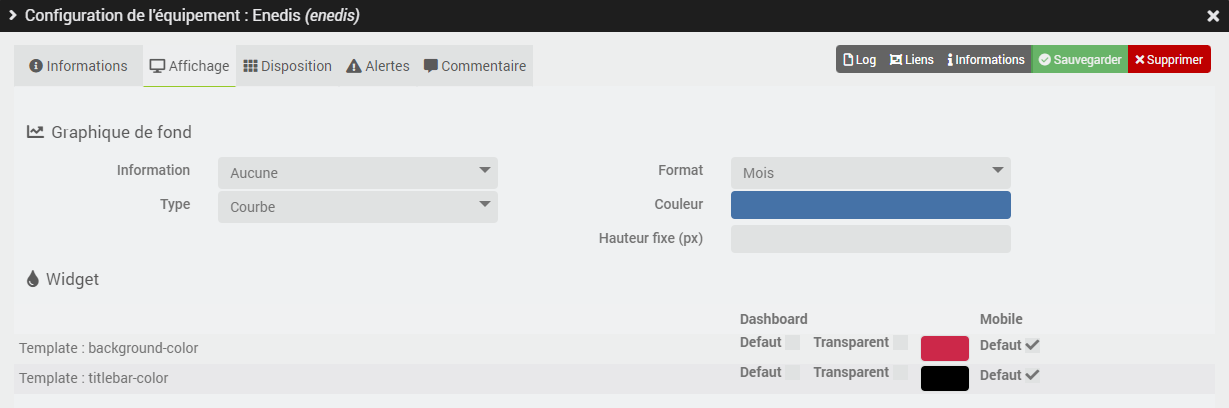
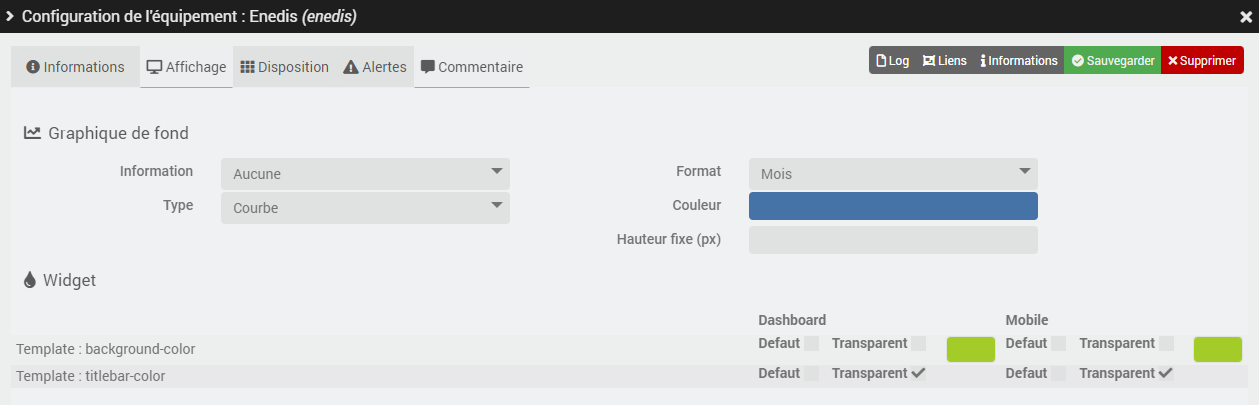
update doc

diff --git a/docs/fr_FR/index.md b/docs/fr_FR/index.md
@@ -95,7 +95,7 @@ Pour activer cette option, il suffit de cocher la case **Activer** de la section
 
 >**ASTUCE**
 >
->En version desktop, les informations affichées sur le widget s'adaptent en taille lors du redimensionnement de la tuile.
+>La case "Défaut" permet de conserver les couleurs par défaut de la tuile.
 
 # FAQ
 
